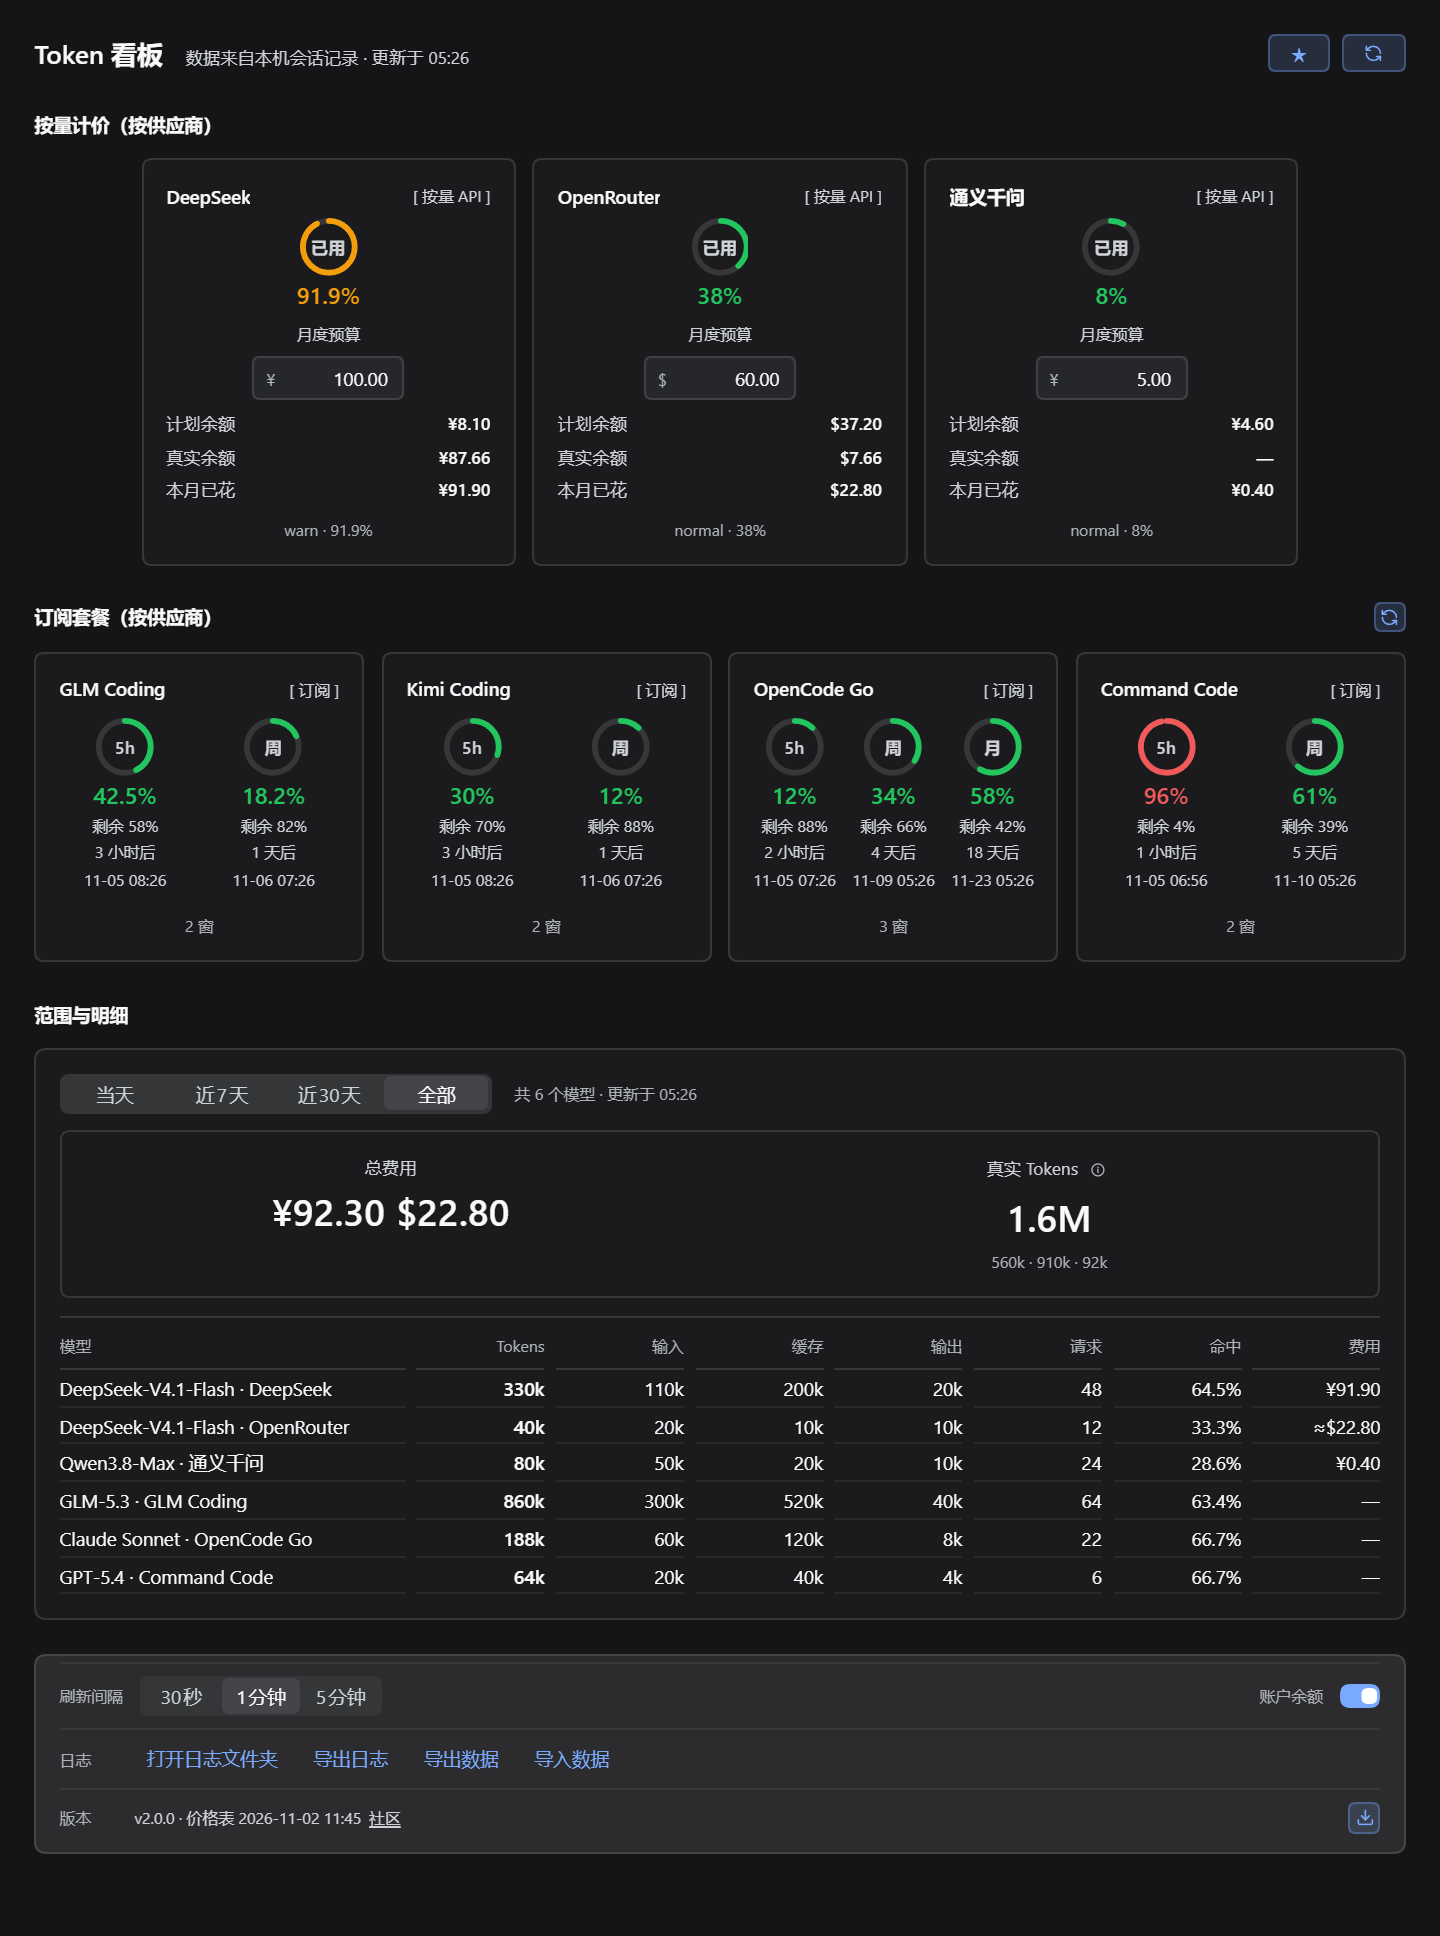
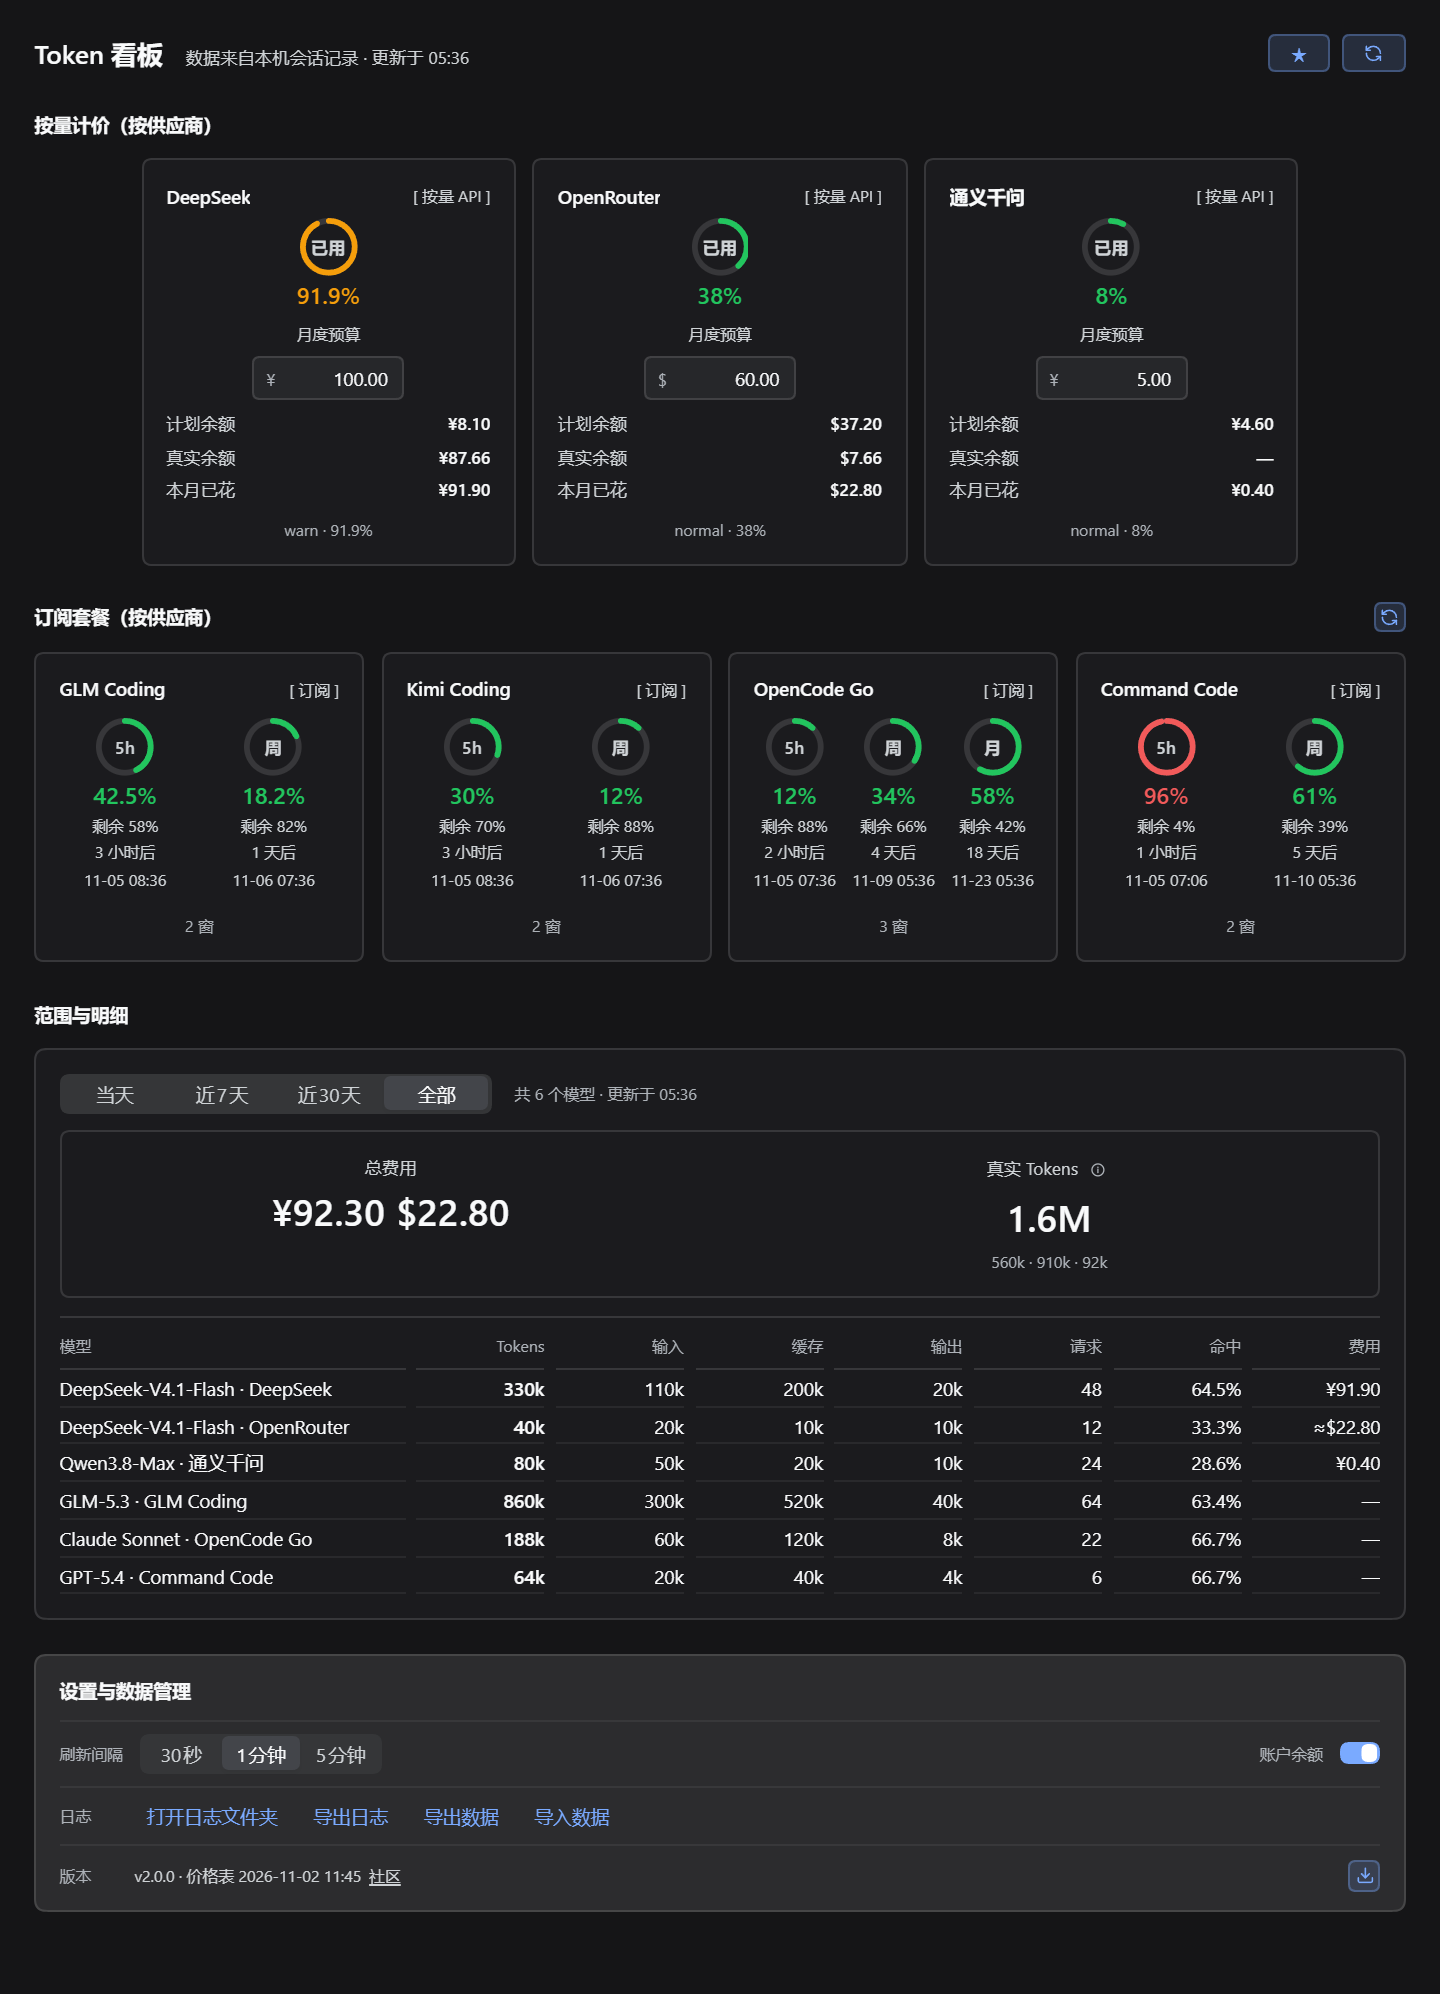
feat: P3 设置胶囊新增标题行（2.0.0）
- SettingsRows 首行插入「设置与数据管理」标题，40px/13px/600\n- 原有刷新间隔/日志/版本三行下移，功能不变\n- UI v3.8、page-p3 预览、settings.png、CHANGELOG、plan 同步\n- e2e 断言标题为首个设置行；npm test 80 通过，e2e 通过

diff --git a/tools/preview/templates/page-p3.html b/tools/preview/templates/page-p3.html
@@ -80,6 +80,7 @@
   }
   .capsule .row { display: flex; align-items: center; gap: var(--space-3); padding: var(--space-2) 0; }
   .capsule .row + .row { border-top: 1px solid color-mix(in srgb, var(--border) 55%, transparent); }
+  .capsule .settings-title { display: flex; align-items: center; height: 40px; font-size: 13px; font-weight: 600; color: var(--text); }
   .capsule .row-refresh { display: flex; align-items: center; justify-content: space-between; }
   .capsule .group { display: flex; align-items: center; gap: var(--space-3); min-width: 0; }
   .capsule .group-left { justify-self: start; }
@@ -155,6 +156,7 @@
   </section>
 
   <div class="capsule">
+    <div class="settings-title">设置与数据管理</div>
     <div class="row row-refresh">
       <div class="group group-left">
         <span class="row-label">刷新间隔</span>
@@ -174,7 +176,7 @@
     </div>
     <div class="row">
       <span class="row-k">版本</span>
-      <span class="meta">v1.3.0-local.5 · 价格表 2026-11-04 17:31 社区</span>
+      <span class="meta">v2.0.0 · 价格表 2026-11-05 05:29 社区</span>
       <span class="grow"></span>
       <button class="btn ghost icon" type="button" title="检查更新">⤓</button>
     </div>

diff --git a/client.js b/client.js
@@ -441,6 +441,10 @@ window.__ModuleLoader__.load({
         background: 'var(--dsw-alias-bg-layer-2, var(--dsh-bg-elevated, #1f1f1f))',
         border: `1px solid ${T.border}`,
       },
+      settingsTitle: {
+        display: 'flex', alignItems: 'center', height: 40,
+        fontSize: 13, fontWeight: 600, color: T.text,
+      },
       settingsRow: {
         display: 'grid', gridTemplateColumns: '40px minmax(0,1fr)', alignItems: 'center', gap: 12,
         padding: '8px 0', minHeight: 24, borderTop: '1px solid color-mix(in srgb, currentColor 6%, transparent)',
@@ -1453,6 +1457,7 @@ window.__ModuleLoader__.load({
 
       const statusText = update.text ?? status?.text ?? ''
       return h('div', { 'data-testid': 'token-dash-settings', style: { display: 'grid', minWidth: 0 } },
+        h('div', { 'data-testid': 'token-dash-settings-title', style: styles.settingsTitle }, tr('设置与数据管理')),
         h('div', {
           'data-testid': 'token-dash-settings-row-1',
           style: { ...styles.settingsRow, ...styles.settingsRowRefresh },

diff --git a/docs/ui-design.md b/docs/ui-design.md
@@ -1,7 +1,7 @@
 # Token 看板 UI 设计
 
 > 唯一 UI 设计真源：视觉、信息层级、文案与交互以本文件为准。<br>
-> **当前版本：v3.7（2026-11-05 2.0.0 余额右对齐）**——P1 改挂输入框底栏右侧 `composer.dock`（Pill 根节点 `order:10`），不再占用 `hero.agentPreset`；P2 固定 380、真实余额跨 3–4 列右对齐；P3 卡片网格、自持滚动与两段设置胶囊；间距统一 4px 六档。<br>
+> **当前版本：v3.8（2026-11-05 2.0.0 设置标题）**——P1 改挂输入框底栏右侧 `composer.dock`（Pill 根节点 `order:10`），不再占用 `hero.agentPreset`；P2 固定 380、真实余额跨 3–4 列右对齐；P3 设置胶囊新增标题行；间距统一 4px 六档。<br>
 > 底框层级：`Panel → Section`；P3 用「卡片网格 + 摘要底框」，分区不靠色相，状态色只给环、百分比与超支。<br>
 > 架构与数据流见 [design.md](design.md)；本轮迭代的需求与实施细节见 [UI 迭代计划](plan/archived/feature_ui_refresh.md)。
 
@@ -11,7 +11,8 @@
 
 | 日期 | 版本 | 变更 | 状态 |
 |---|---|---|---|
-| 2026-11-05 | **v3.7** | **2.0.0 余额右对齐**：P2 真实余额跨第 3–4 列、贴面板右缘；前三组位置不变 | 已实现（2.0.0 候选） |
+| 2026-11-05 | **v3.8** | **2.0.0 设置标题**：P3 设置胶囊新增「设置与数据管理」标题行；原三行下移、功能不变 | 已实现（2.0.0 候选） |
+| 2026-11-05 | v3.7 | **2.0.0 余额右对齐**：P2 真实余额跨第 3–4 列、贴面板右缘；前三组位置不变 | 已实现（2.0.0 候选） |
 | 2026-11-05 | v3.6 | **2.0.0 底栏右移**：P1 仍在 `composer.dock`，Pill 根节点 `order:10` 排到 ContextMeter 之后；删除 hero 注入，官方 Agent 模式恢复 | 已实现（2.0.0 候选） |
 | 2026-11-05 | v3.5 | **2.0.0 定稿**：P2 按量摘要移除「本月已花」，保留三组 + 尾部空槽；其余沿用 v3.4 | 已实现（2.0.0） |
 | 2026-11-05 | v3.4 | **1.3.0 定稿**：P2 固定 380 / 单行摘要 / 三槽位 / 表格列距 8；P3 页头两按钮 44×26、胶囊无立即刷新、自持滚动、明细 240 + 7×1fr / 13px；间距 4px 六档 | 已实现（1.3.0） |
@@ -340,10 +341,12 @@ Token 看板   数据来自本机会话记录 · 更新于 12:30        [ ★ ] 
 
 | 行 | 标签 | 内容 |
 |---|---|---|
+| 0 | — | **设置与数据管理** 标题行，13px / 600 / 40px，左对齐，无右侧操作 |
 | 1 | — | 刷新间隔 segmented（左对齐）；右端账户余额 toggle；**无行标签、无「立即刷新」** |
 | 2 | 日志 | 打开日志文件夹 / 导出日志 / 导出数据 / 导入数据（ghost 按钮） |
 | 3 | 版本 | `vX.Y.Z · 价格表 YYYY-MM-DD`；右端 `⤓ 检查更新`（ghost） |
 
+- 标题行位于胶囊内最上方，下方用原有 1px 6% 分隔线接第一行；卡片总高 +40。
 - 日志 / 版本两行标签固定 40px；第一行无行标签，间隔组直接从内容左缘开始；行间 1px 6% 分隔线。
 - 第一行无按钮：刷新间隔 segmented 左对齐，账户余额 toggle 右对齐。
 - 日志与检查更新为 ghost（蓝字、透明底 / 透明边），不再使用主按钮。

diff --git a/docs/plan/active/dsh/feature_p3_settings_title.md b/docs/plan/active/dsh/feature_p3_settings_title.md
@@ -1,19 +1,19 @@
 # P3 设置卡片标题行
 
-> 状态：草案（待确认标题文案）<br>
+> 状态：待验收（2.0.0 候选）<br>
 > 创建时间：2026-11-05<br>
-> 更新时间：2026-11-05（代码核对 + 标题建议）<br>
+> 更新时间：2026-11-05（文案确认 + 实现 + 测试）<br>
 > 关联逻辑根：`dsh-token-dash`（`client.js`）<br>
-> 关联资料：[`ui-design.md`](../../../ui-design.md) v3.7 §5.7、归档 plan [`feature_p1_bottom_right.md`](../../archived/dsh/feature_p1_bottom_right.md)
+> 关联资料：[`ui-design.md`](../../../ui-design.md) v3.8 §5.7、归档 plan [`feature_p1_bottom_right.md`](../../archived/dsh/feature_p1_bottom_right.md)
 
 ## 一、最终需求与范围
 
 | ID | 处置 | 需求 | 建议结论 |
 |---|---|---|---|
-| REQ-01 | 待确认 | P3 设置卡片增加一行标题 | 卡片内第一行，文案 **设置与数据管理** |
-| REQ-02 | 待确认 | 标题与现有三行区分 | 13px / 600、40px 高、左对齐，行下 1px 6% 分隔线 |
-| REQ-03 | 待确认 | 不改变现有控件顺序与行为 | 刷新间隔 / 日志 / 版本三行原样下移 |
-| REQ-04 | 待确认 | 文档、预览、截图、e2e 同步 | UI §5.7 / preview / settings.png / e2e |
+| REQ-01 | 完成 | P3 设置卡片增加一行标题 | 卡片内第一行，文案 **设置与数据管理** |
+| REQ-02 | 完成 | 标题与现有三行区分 | 13px / 600、40px 高、左对齐，行下 1px 6% 分隔线 |
+| REQ-03 | 完成 | 不改变现有控件顺序与行为 | 刷新间隔 / 日志 / 版本三行原样下移 |
+| REQ-04 | 完成 | 文档、预览、截图、e2e 同步 | UI §5.7 / preview / settings.png / e2e |
 | BND-01 | 保持 | 不加按钮、不加折叠、不改数据/接口 | 纯标题行 |
 | BND-02 | 保持 | 不增加卡片高度之外的结构变化 | 只多一行 40px |
 | BND-03 | 保持 | 不改 P1/P2 与 provider / VM | 仅 P3 设置胶囊 |
@@ -119,4 +119,8 @@ settings capsule
 
 ## 九、自测反馈台
 
-（待确认标题后实施）
+- 2026-11-05：标题文案确认「设置与数据管理」，代码插入 `token-dash-settings-title`；
+- 标题行 40px / 13px / 600，原有三行下移，功能不变；
+- `docs/ui-design.md` v3.8 §5.7 同步；
+- `page-p3` 预览与 `settings.png` 已重出；
+- `npm test` 80 通过；`npm run e2e` UI assertions passed（含标题顺序断言）。

diff --git a/CHANGELOG.md b/CHANGELOG.md
@@ -23,6 +23,7 @@
 - 7 家 provider registry 与价格链接同步；非回环请求走安全门；错误分类补 `upstream` 标记。
 - P1 在输入框底栏内右移（`composer.dock` 的 Pill 根节点 `order:10`），并移除 hero 槽位注入，官方 Agent 模式按钮恢复。
 - P2 摘要「真实余额」跨第 3–4 列并右对齐到面板右缘，前三组位置不变。
+- P3 设置胶囊新增「设置与数据管理」标题行（13px / 600 / 40px），原有三行功能不变。
 
 ## [1.3.0] - 2026-11-05
 
